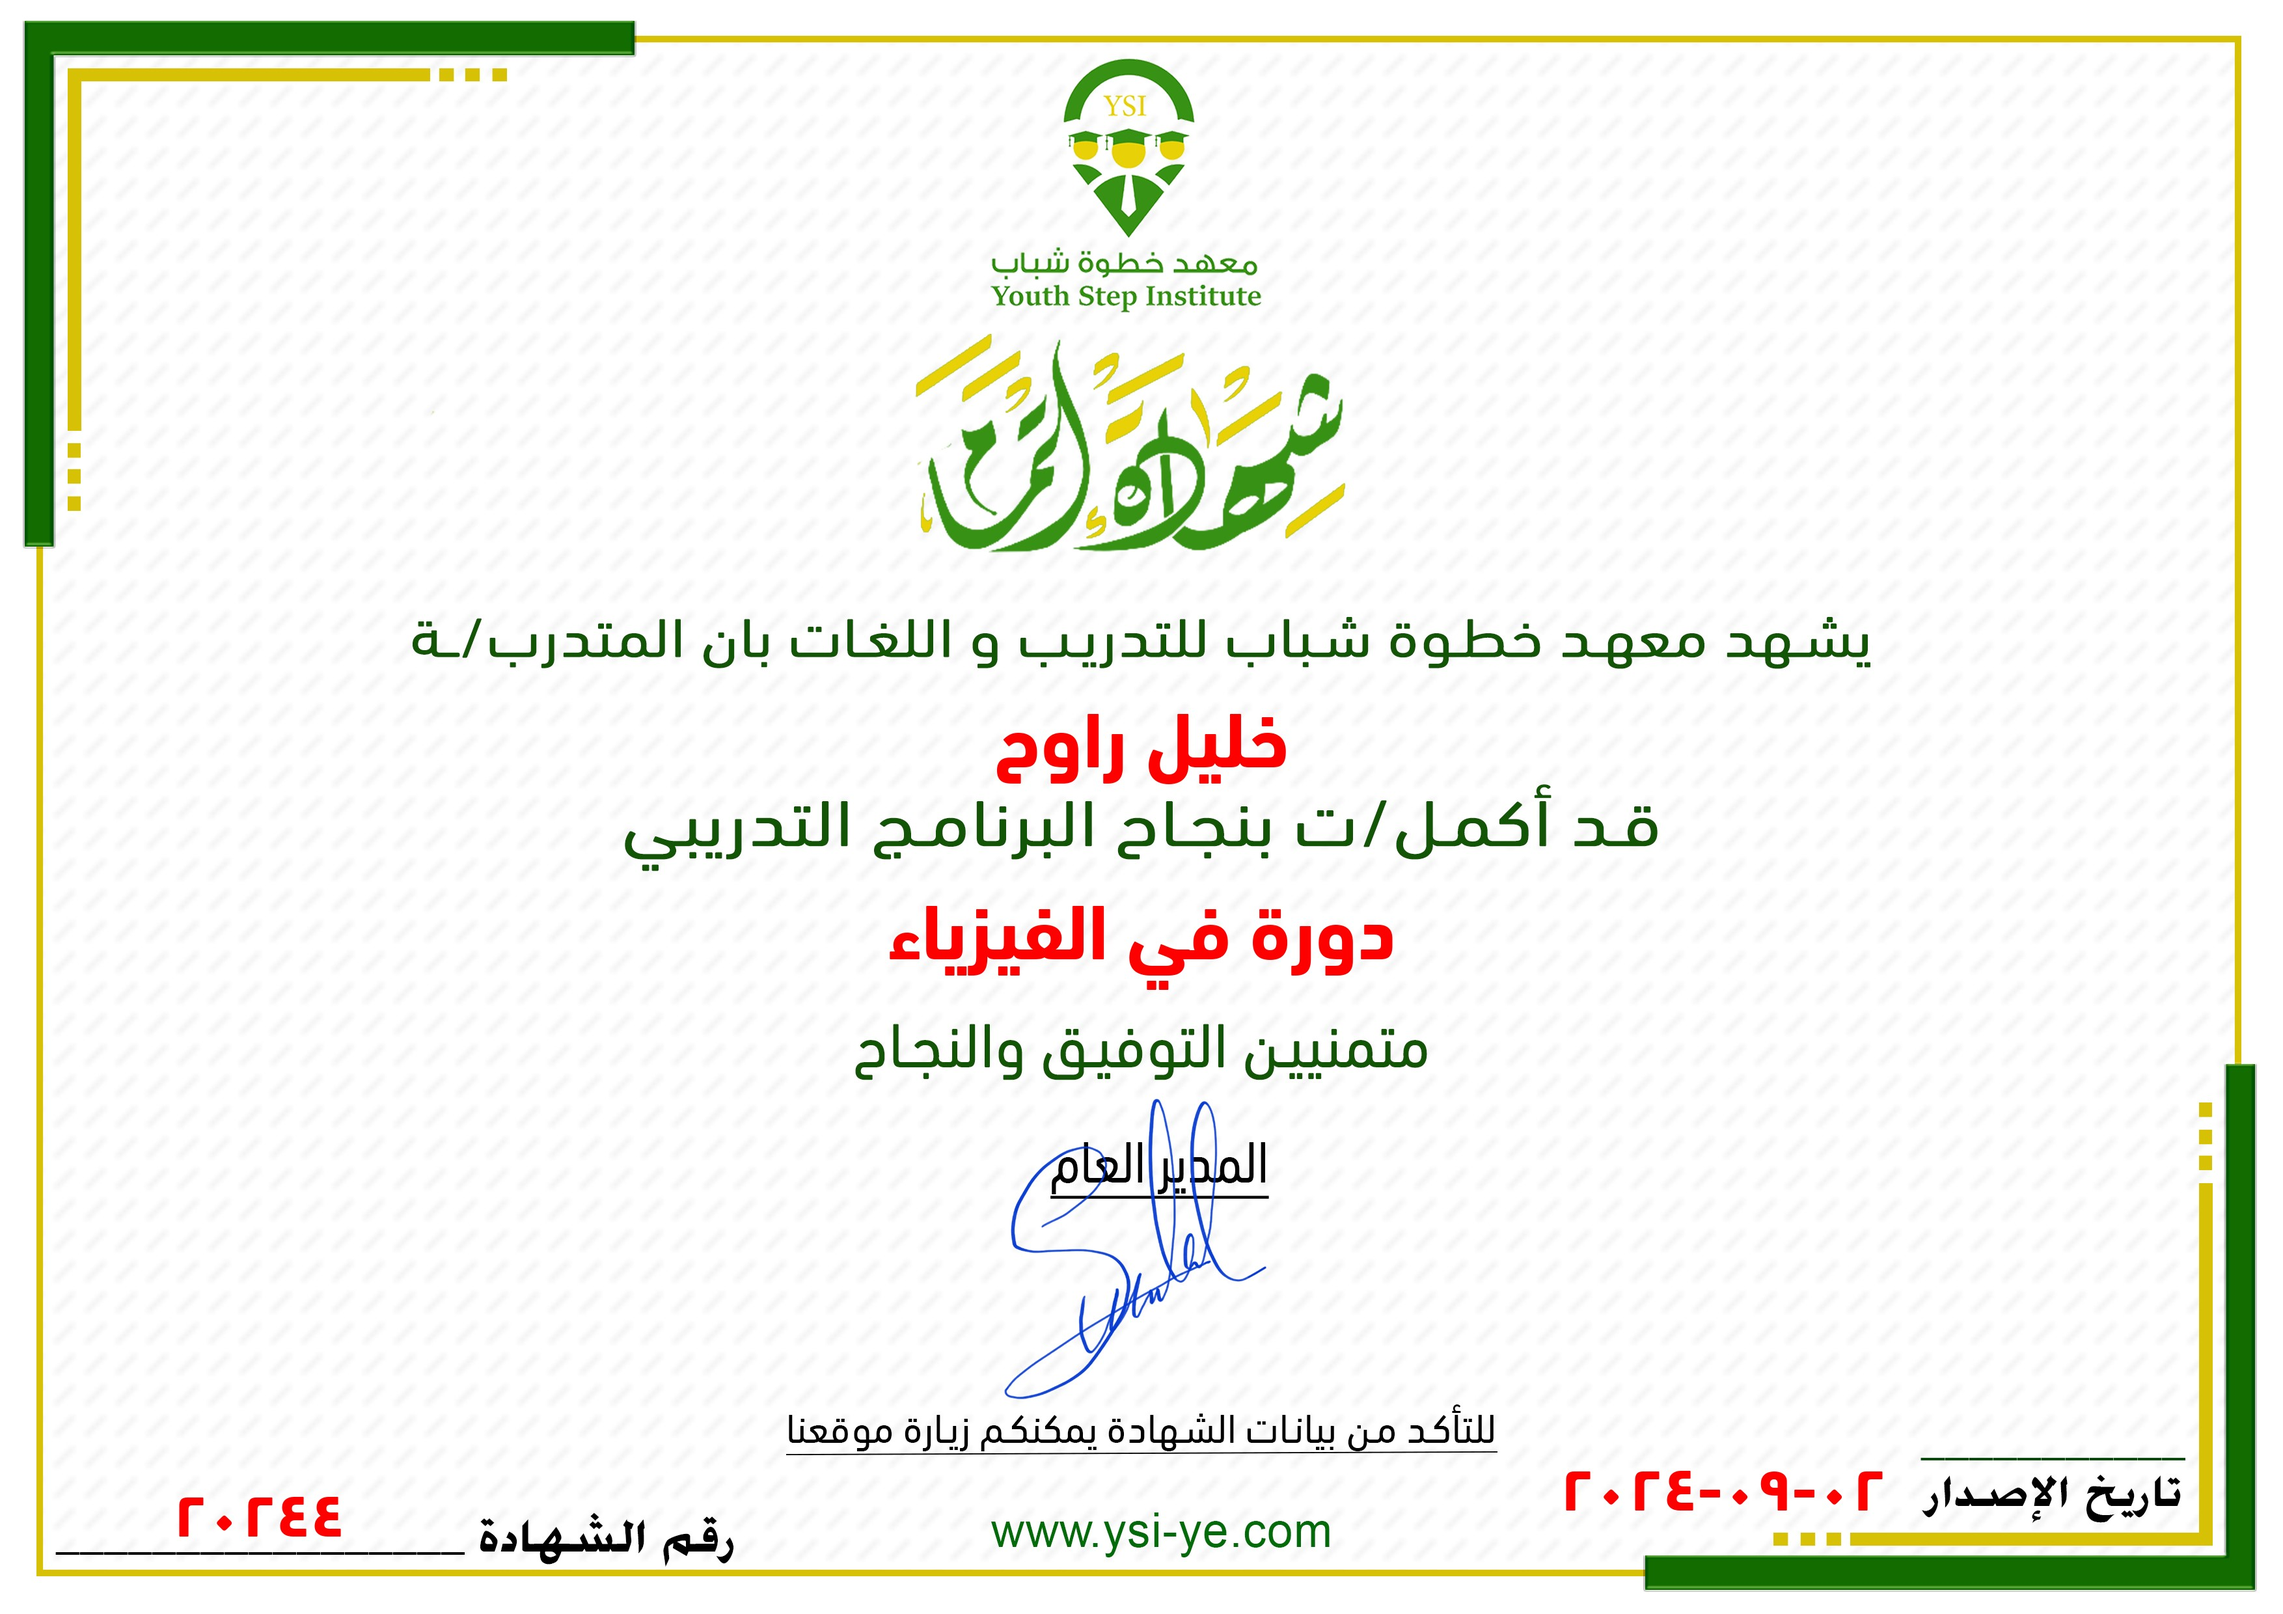
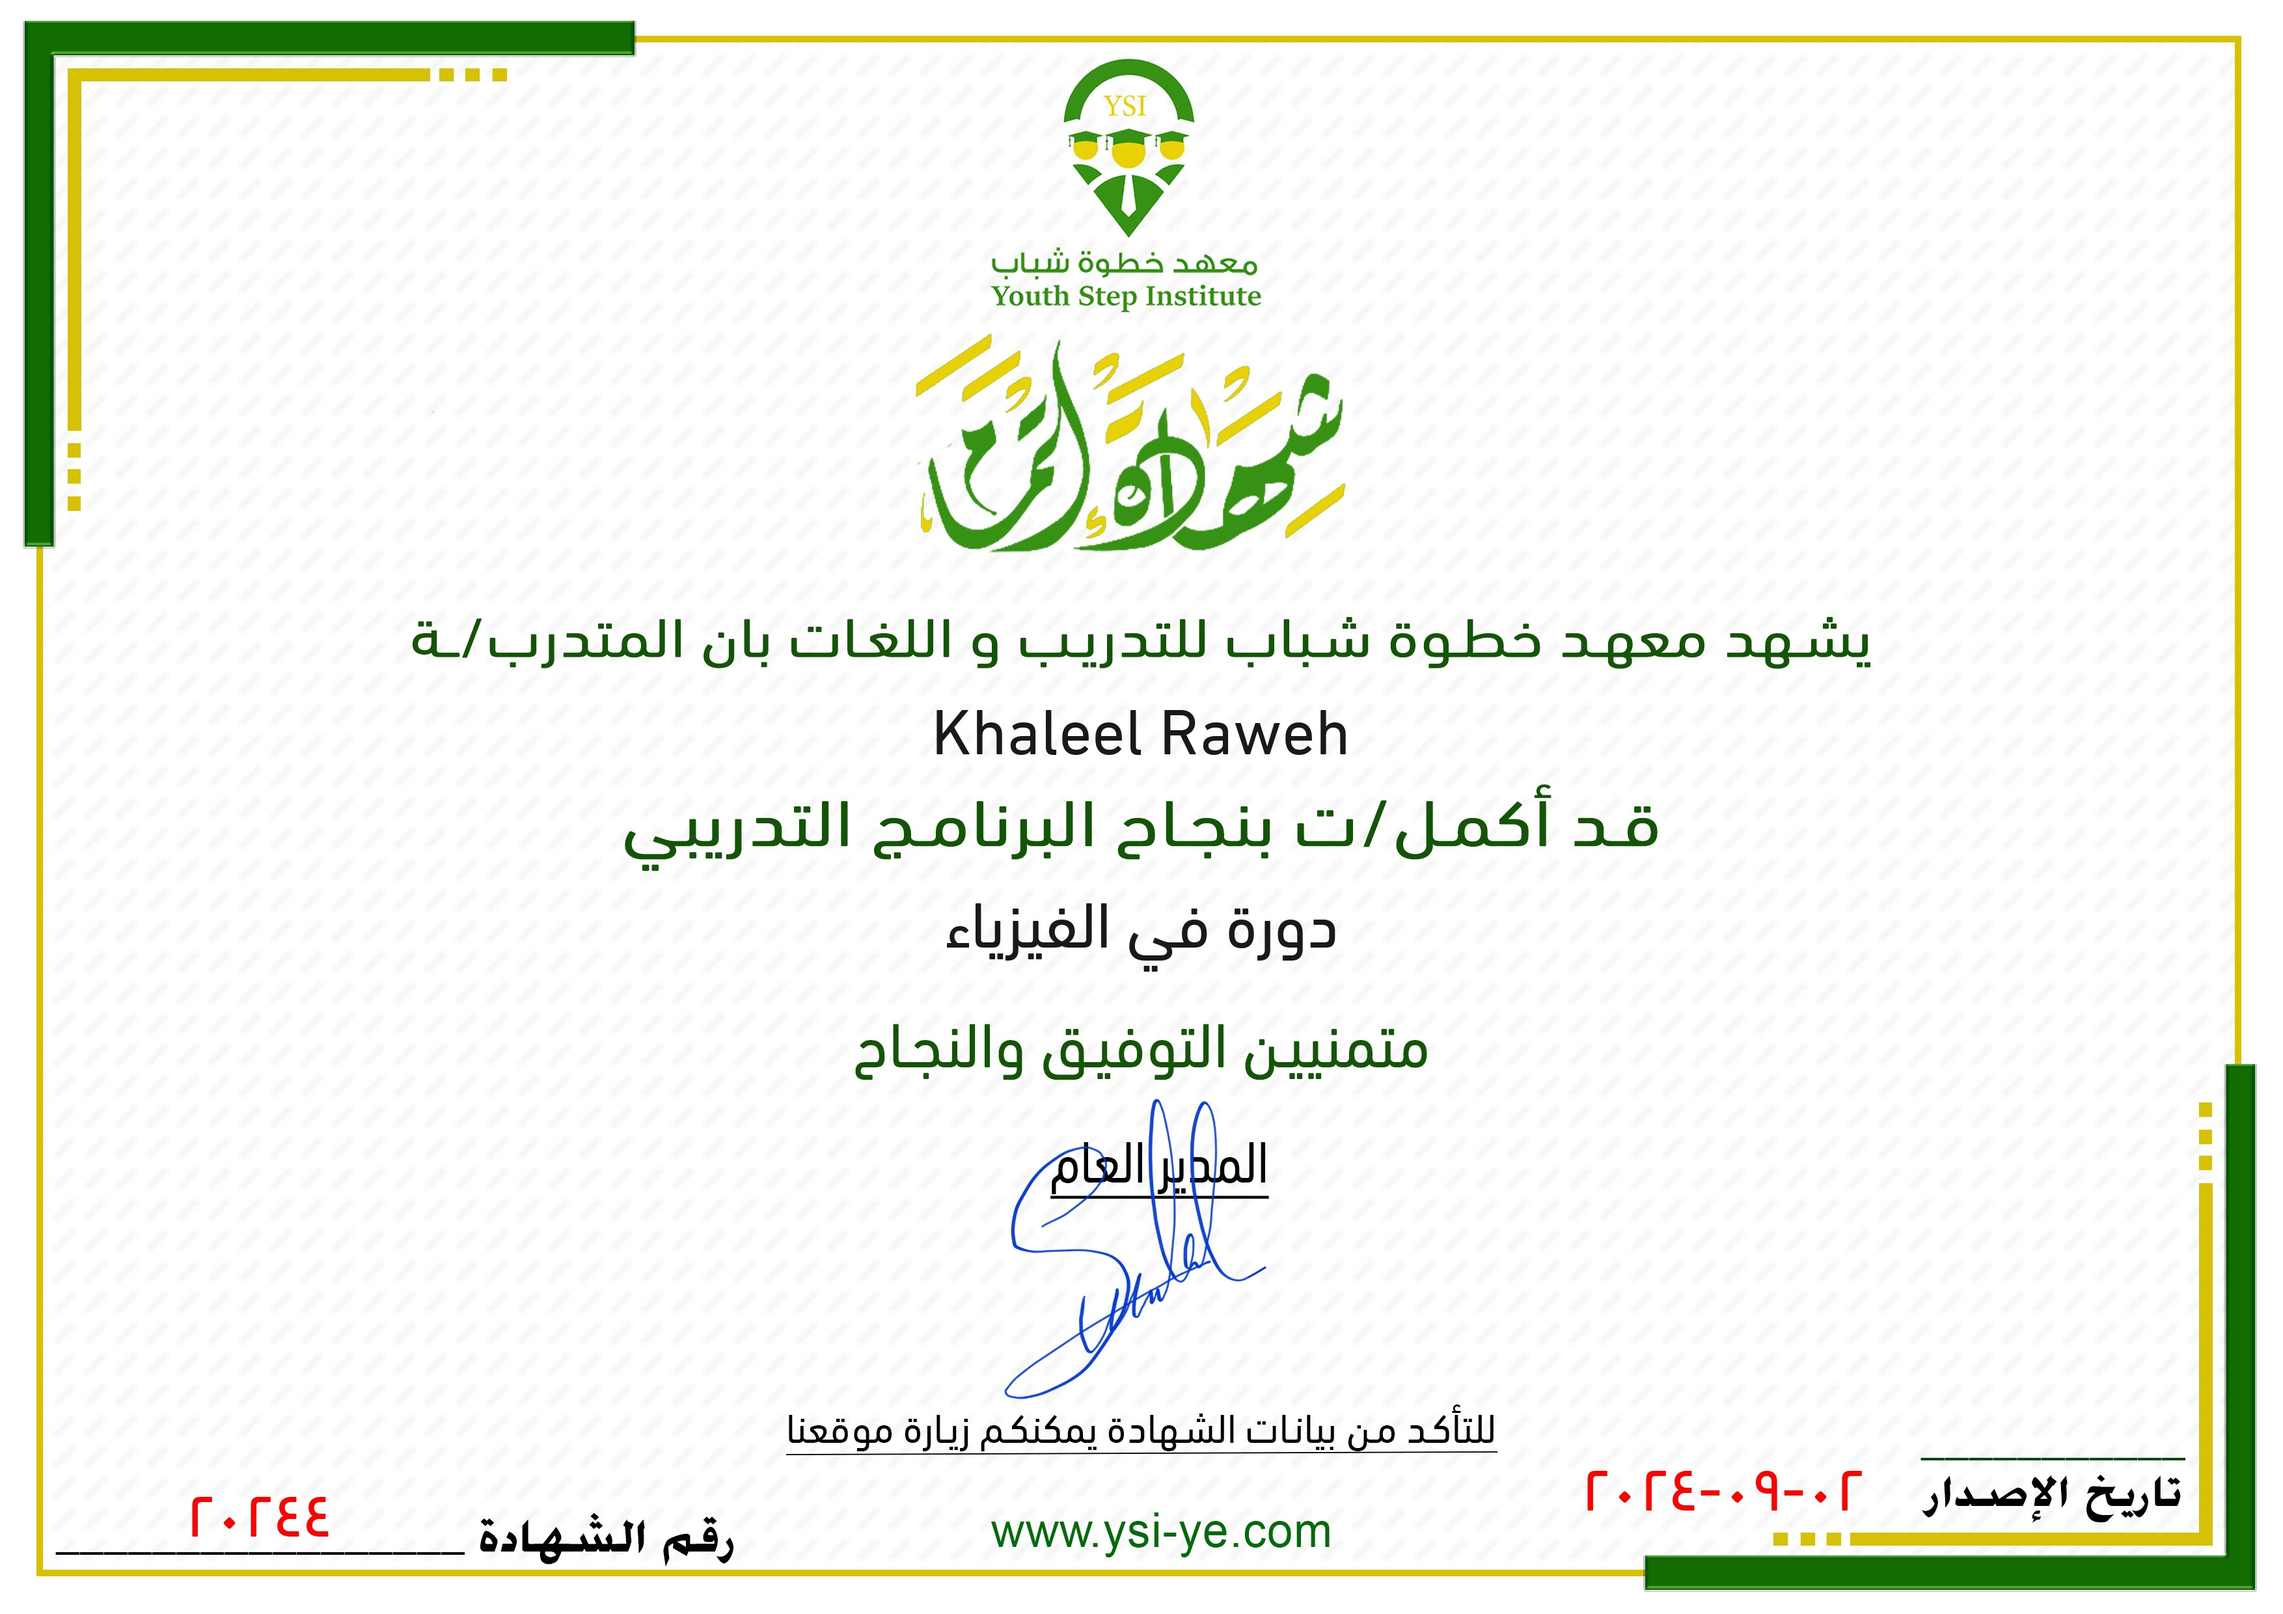
save all

diff --git a/app/Http/Controllers/Frontend/CustomerController.php b/app/Http/Controllers/Frontend/CustomerController.php
@@ -151,8 +151,9 @@ class CustomerController extends Controller
         $arabic = new Arabic();
 
 
-        $fontPath = public_path('fonts/DINNextLTArabic-Bold-2.ttf');
-        $fontSize = 120;
+        // $fontPath = public_path('fonts/DINNextLTArabic-Bold-2.ttf');
+        $fontPath = public_path('fonts/DINNextLTArabic-Regular-3.ttf');
+        $fontSize = 100;
 
         // تحميل الصورة
         $cover = Image::make('assets/certifications/certificate.jpg');
@@ -180,7 +181,8 @@ class CustomerController extends Controller
         $cover->text($userName, $x_user_name, $y_user_name, function ($font) use ($fontPath, $fontSize) {
             $font->file($fontPath);
             $font->size($fontSize);
-            $font->color('#ff0000');
+            // $font->color('#ff0000');
+            $font->color('#191919');
             $font->align('center'); // محاذاة النص إلى المركز
             $font->valign('middle'); // محاذاة النص إلى المنتصف عموديًا
         });
@@ -194,14 +196,14 @@ class CustomerController extends Controller
         $textHeightCourseTitle = abs($textBoxCourseTitle[1] - $textBoxCourseTitle[7]);
 
         $x_course_title = ($width / 2);
-        $y_course_title = ($height + $textHeightCourseTitle) / 2 + 130;
+        $y_course_title = ($height + $textHeightCourseTitle) / 2 + 145;
 
 
         // إضافة عنوان الكورس إلى الصورة
         $cover->text($courseTitle, $x_course_title, $y_course_title, function ($font) use ($fontPath, $fontSize) {
             $font->file($fontPath);
             $font->size($fontSize);
-            $font->color('#ff0000');
+            $font->color('#191919');
             $font->align('center'); // محاذاة النص إلى المركز
             $font->valign('middle'); // محاذاة النص إلى المنتصف عموديًا
         });
@@ -223,7 +225,7 @@ class CustomerController extends Controller
         $cover->text($dateOfIssue, $x_date_of_issue, $y_date_of_issue, function ($font) use ($fontPath) {
             $font->file($fontPath);
             $font->size(100);
-            $font->color('#ff0000');
+            $font->color('#191919');
             $font->align('center'); // محاذاة النص إلى المركز
             $font->valign('middle'); // محاذاة النص إلى المنتصف عموديًا
         });
@@ -245,7 +247,7 @@ class CustomerController extends Controller
         $cover->text($certCode, $x_cet_code, $y_cet_code, function ($font) use ($fontPath) {
             $font->file($fontPath);
             $font->size(100);
-            $font->color('#ff0000');
+            $font->color('#191919');
             $font->align('center'); // محاذاة النص إلى المركز
             $font->valign('middle'); // محاذاة النص إلى المنتصف عموديًا
         });
